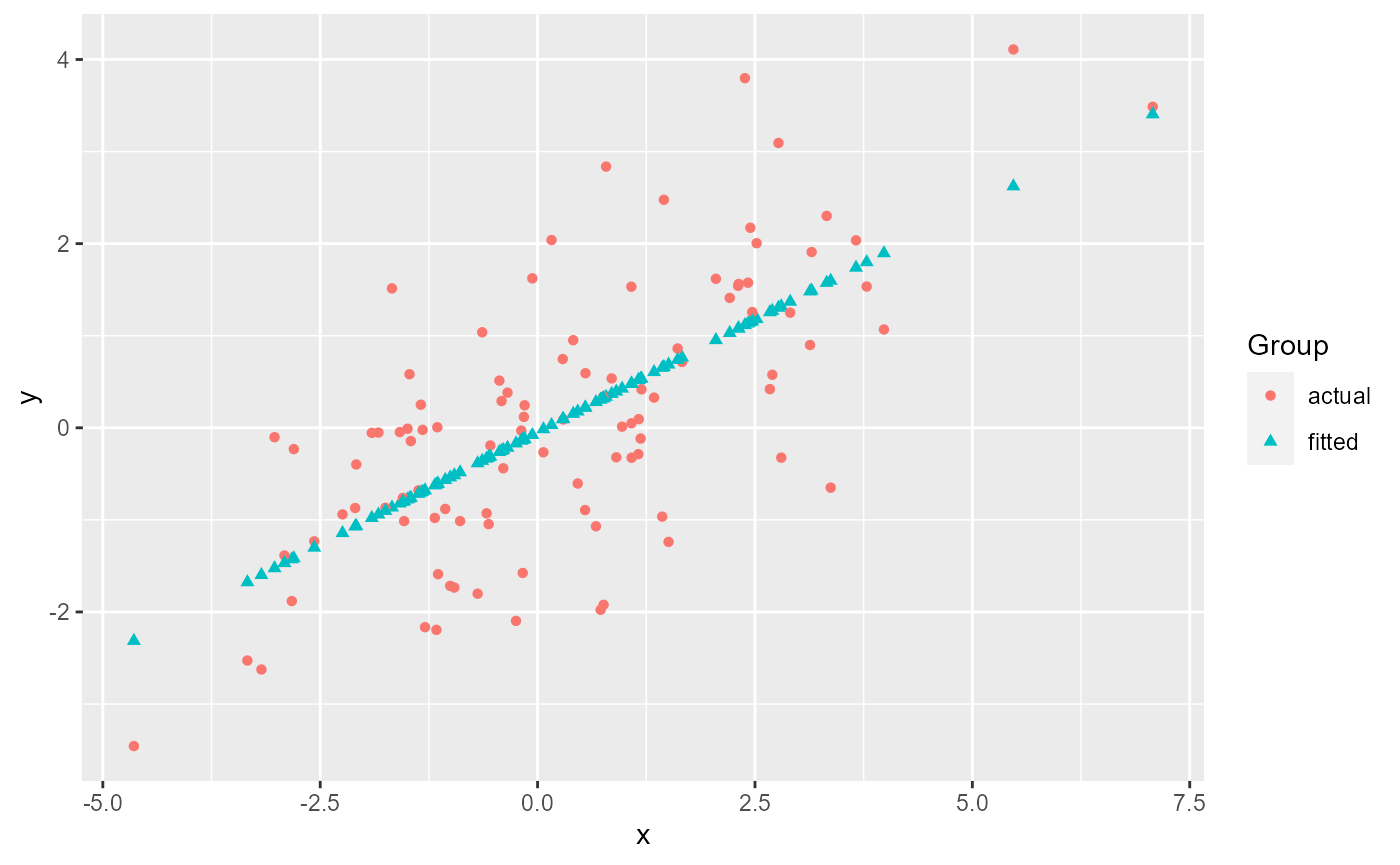
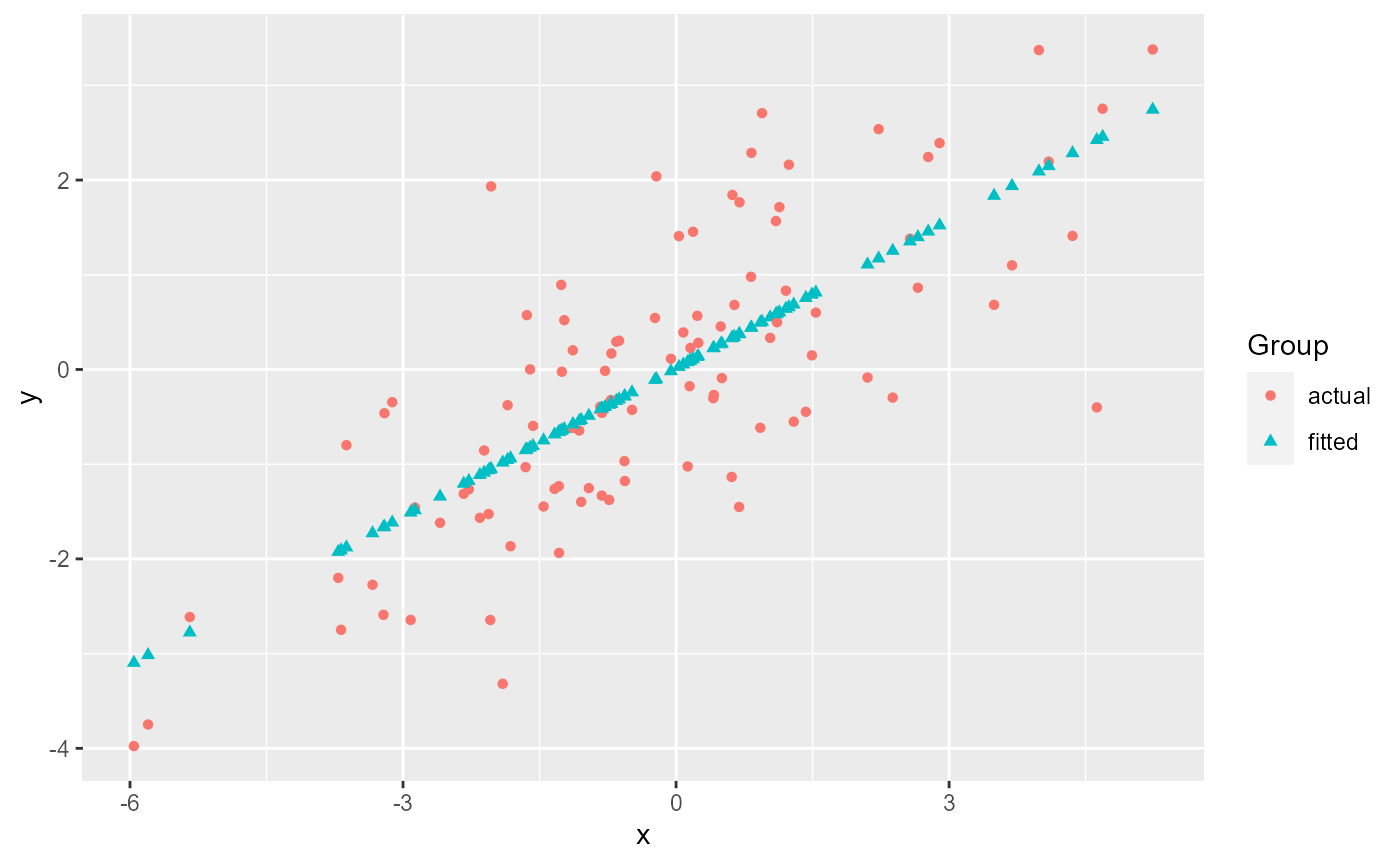
Updated ggmatplot argument documentation

diff --git a/docs/reference/ggmatplot.html b/docs/reference/ggmatplot.html
@@ -40,8 +40,8 @@
 
 
 <meta property="og:title" content="ggmatplot — ggmatplot" />
-<meta property="og:description" content="ggmatplot is a quick and easy way of plotting the columns of two matrices
-against each other." />
+<meta property="og:description" content="ggmatplot is a quick and easy way of plotting the columns of two matrices or
+data frames against each other using ggplot2." />
 
 
 
@@ -127,17 +127,18 @@ against each other." />
     </div>
 
     <div class="ref-description">
-    <p><code>ggmatplot</code> is a quick and easy way of plotting the columns of two matrices
-against each other.</p>
+    <p><code>ggmatplot</code> is a quick and easy way of plotting the columns of two matrices or
+data frames against each other using <a href='https://ggplot2.tidyverse.org/'><code>ggplot2</code></a>.</p>
     </div>
 
     <pre class="usage"><span class='fu'>ggmatplot</span><span class='op'>(</span>
   <span class='va'>x</span>,
   <span class='va'>y</span>,
+  plot_type <span class='op'>=</span> <span class='st'>"point"</span>,
   color <span class='op'>=</span> <span class='cn'>NULL</span>,
+  fill <span class='op'>=</span> <span class='cn'>NULL</span>,
   shape <span class='op'>=</span> <span class='cn'>NULL</span>,
   linetype <span class='op'>=</span> <span class='cn'>NULL</span>,
-  fill <span class='op'>=</span> <span class='cn'>NULL</span>,
   xlim <span class='op'>=</span> <span class='fu'><a href='https://rdrr.io/r/base/c.html'>c</a></span><span class='op'>(</span><span class='cn'>NA</span>, <span class='cn'>NA</span><span class='op'>)</span>,
   ylim <span class='op'>=</span> <span class='fu'><a href='https://rdrr.io/r/base/c.html'>c</a></span><span class='op'>(</span><span class='cn'>NA</span>, <span class='cn'>NA</span><span class='op'>)</span>,
   log <span class='op'>=</span> <span class='cn'>NULL</span>,
@@ -146,7 +147,7 @@ against each other.</p>
   ylab <span class='op'>=</span> <span class='cn'>NULL</span>,
   legend_label <span class='op'>=</span> <span class='cn'>NULL</span>,
   legend_title <span class='op'>=</span> <span class='cn'>NULL</span>,
-  plot_type <span class='op'>=</span> <span class='st'>"point"</span>,
+  desc_stat <span class='op'>=</span> <span class='st'>"mean_se"</span>,
   asp <span class='op'>=</span> <span class='cn'>NA</span>,
   <span class='va'>...</span>
 <span class='op'>)</span></pre>
@@ -156,12 +157,20 @@ against each other.</p>
     <colgroup><col class="name" /><col class="desc" /></colgroup>
     <tr>
       <th>x, y</th>
-      <td><p>Vectors or matrices of data for plotting.</p><ul>
+      <td><p>Vectors or matrices of data.</p><ul>
 <li><p>The number of rows of <code>x</code> and <code>y</code> should be the same.</p></li>
+<li><p>Either <code>x</code> or <code>y</code> should be a vector, unless the number of columns of <code>x</code> and
+<code>y</code> are the same.</p></li>
 <li><p>Missing values (NAs) are allowed.</p></li>
 <li><p>If either <code>x</code> or <code>y</code> is missing, the other is used as <code>y</code> and a vector of
 <code>1:n</code> is used as <code>x</code>.</p></li>
 </ul></td>
+    </tr>
+    <tr>
+      <th>plot_type</th>
+      <td><p>A string specifying the type of plot. Possible plot types are
+<code>point</code>, <code>line</code>, <code>both</code>(point + line), <code>density</code>, <code>histogram</code>, <code>boxplot</code>,
+<code>dotplot</code>, <code>errorplot</code>, <code>violin</code>, and <code>ecdf</code>. Default plot_type is <code>point</code>.</p></td>
     </tr>
     <tr>
       <th>color, fill</th>
@@ -184,10 +193,12 @@ used for all columns.</p></li>
     </tr>
     <tr>
       <th>xlim, ylim</th>
-      <td><p>Ranges of x and y axes. Each of them should be a two element
-vector specifying the lower and upper limits of the scale. If the larger
-value is given first, the scale will be reversed. If one of the limits is
-given as <code>NA</code>, the corresponding limit from the range of data will be used.</p></td>
+      <td><p>Ranges of x and y axes.</p><ul>
+<li><p>Each of them should be a two element vector specifying the lower and upper
+limits of the scale. If the larger value is given first, the scale will be
+reversed. If one of the limits is given as <code>NA</code>, the corresponding limit from
+the range of data will be used.</p></li>
+</ul></td>
     </tr>
     <tr>
       <th>log</th>
@@ -201,14 +212,13 @@ y axis label and legend title respectively.</p></td>
     </tr>
     <tr>
       <th>legend_label</th>
-      <td><p>A list of strings, to rename the legend labels.</p></td>
+      <td><p>A vector of strings, to rename the legend labels.</p></td>
     </tr>
     <tr>
-      <th>plot_type</th>
-      <td><p>A string specifying the type of plot to draw. Possible plot
-types are <code>point</code>, <code>line</code>, <code>both</code>(point + line), <code>density</code>, <code>histogram</code>,
-<code>boxplot</code>, <code>dotplot</code>, <code>errorplot</code>, <code>violin</code>, and <code>ecdf</code>. Default plot_type is
-<code>point</code>.</p></td>
+      <th>desc_stat</th>
+      <td><p>Descriptive statistics to be used for visualizing errors, in
+<code>errorplot</code>. Possible values are <code>mean_se</code>, <code>mean_sd</code>, <code>mean_range</code>,
+<code>median_iqr</code> and <code>median_range</code>. Default desc_stat is <code>mean_se</code>.</p></td>
     </tr>
     <tr>
       <th>asp</th>

diff --git a/docs/articles/ggmatplot.html b/docs/articles/ggmatplot.html
@@ -101,7 +101,7 @@
 <span class="va">x</span> <span class="op">&lt;-</span> <span class="fu"><a href="https://rdrr.io/r/base/c.html">c</a></span><span class="op">(</span><span class="fu"><a href="https://rdrr.io/r/stats/Normal.html">rnorm</a></span><span class="op">(</span><span class="fl">100</span>, sd <span class="op">=</span> <span class="fl">2</span><span class="op">)</span><span class="op">)</span>
 
 <span class="fu"><a href="https://rdrr.io/r/utils/head.html">head</a></span><span class="op">(</span><span class="va">x</span><span class="op">)</span>
-<span class="co">#&gt; [1]  0.7592785  1.3395749 -0.3945904 -3.1759658  0.8521259 -0.4395164</span>
+<span class="co">#&gt; [1] -1.285603 -2.868849 -2.916041 -1.334777 -3.680669  1.239534</span>
 
 <span class="co"># matrix z</span>
 <span class="va">y</span> <span class="op">&lt;-</span> <span class="va">x</span> <span class="op">*</span> <span class="fl">0.5</span> <span class="op">+</span> <span class="fu"><a href="https://rdrr.io/r/stats/Normal.html">rnorm</a></span><span class="op">(</span><span class="fl">100</span>, sd <span class="op">=</span> <span class="fl">1</span><span class="op">)</span>
@@ -110,13 +110,13 @@
            fitted <span class="op">=</span> <span class="va">fit.y</span><span class="op">)</span>
 
 <span class="fu"><a href="https://rdrr.io/r/utils/head.html">head</a></span><span class="op">(</span><span class="va">z</span><span class="op">)</span>
-<span class="co">#&gt;       actual     fitted</span>
-<span class="co">#&gt; 1 -1.9222355  0.3226167</span>
-<span class="co">#&gt; 2  0.3282642  0.6058364</span>
-<span class="co">#&gt; 3 -0.4396167 -0.2405410</span>
-<span class="co">#&gt; 4 -2.6248958 -1.5980203</span>
-<span class="co">#&gt; 5  0.5363182  0.3679318</span>
-<span class="co">#&gt; 6  0.5124141 -0.2624676</span></code></pre></div>
+<span class="co">#&gt;      actual     fitted</span>
+<span class="co">#&gt; 1 -1.936681 -0.6593592</span>
+<span class="co">#&gt; 2 -1.457992 -1.4853584</span>
+<span class="co">#&gt; 3 -2.643763 -1.5099790</span>
+<span class="co">#&gt; 4 -1.260388 -0.6850136</span>
+<span class="co">#&gt; 5 -2.748422 -1.9088952</span>
+<span class="co">#&gt; 6  2.162052  0.6580366</span></code></pre></div>
 <p><code>ggmatplot</code> plots vector <code>x</code> against each column of matrix <code>z</code> using the default <code>plot_type = "point"</code>. This will be represented on the resulting plot as two groups, identified using different shapes and colors.</p>
 <div class="sourceCode" id="cb2"><pre class="downlit sourceCode r">
 <code class="sourceCode R"><span class="kw"><a href="https://rdrr.io/r/base/library.html">library</a></span><span class="op">(</span><span class="va"><a href="https://github.com/xuan-liang/ggmatplot">ggmatplot</a></span><span class="op">)</span>
